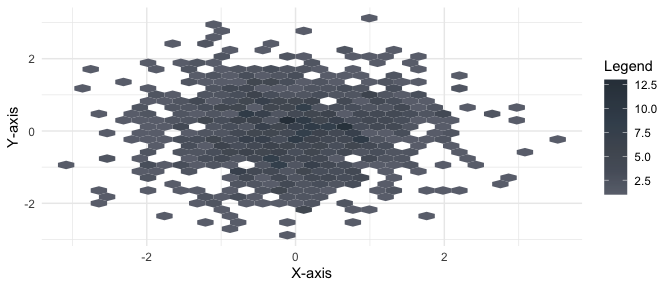
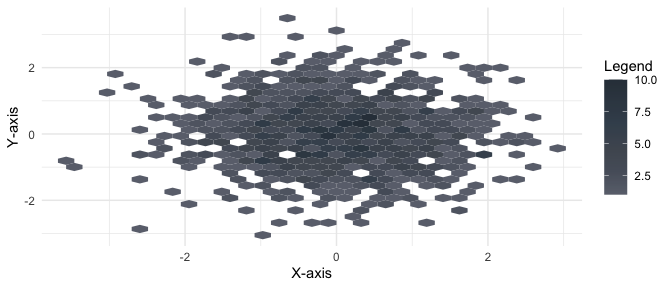
removed excess link in readme

diff --git a/README.md b/README.md
@@ -24,8 +24,6 @@ The structure of the code and creative inspiration were drawn from the
 Colors were selected using
 [{eyedroppeR}](https://github.com/doehm/eyedroppeR).
 
-See <https://nvietto.github.io/Rdune/> for full documentation.
-
 ## Installation
 
 {Rdune} is available on CRAN. Install using:
